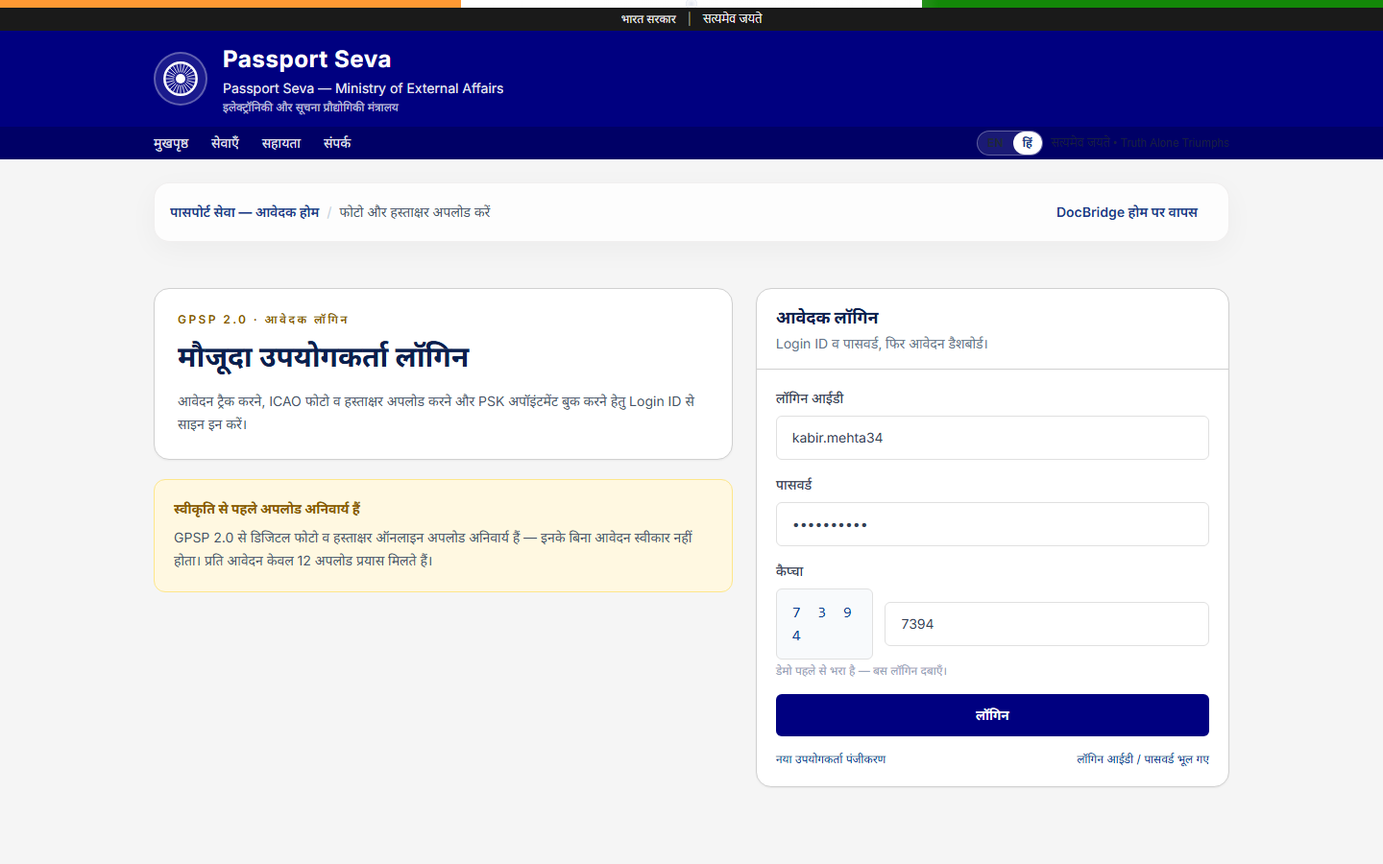
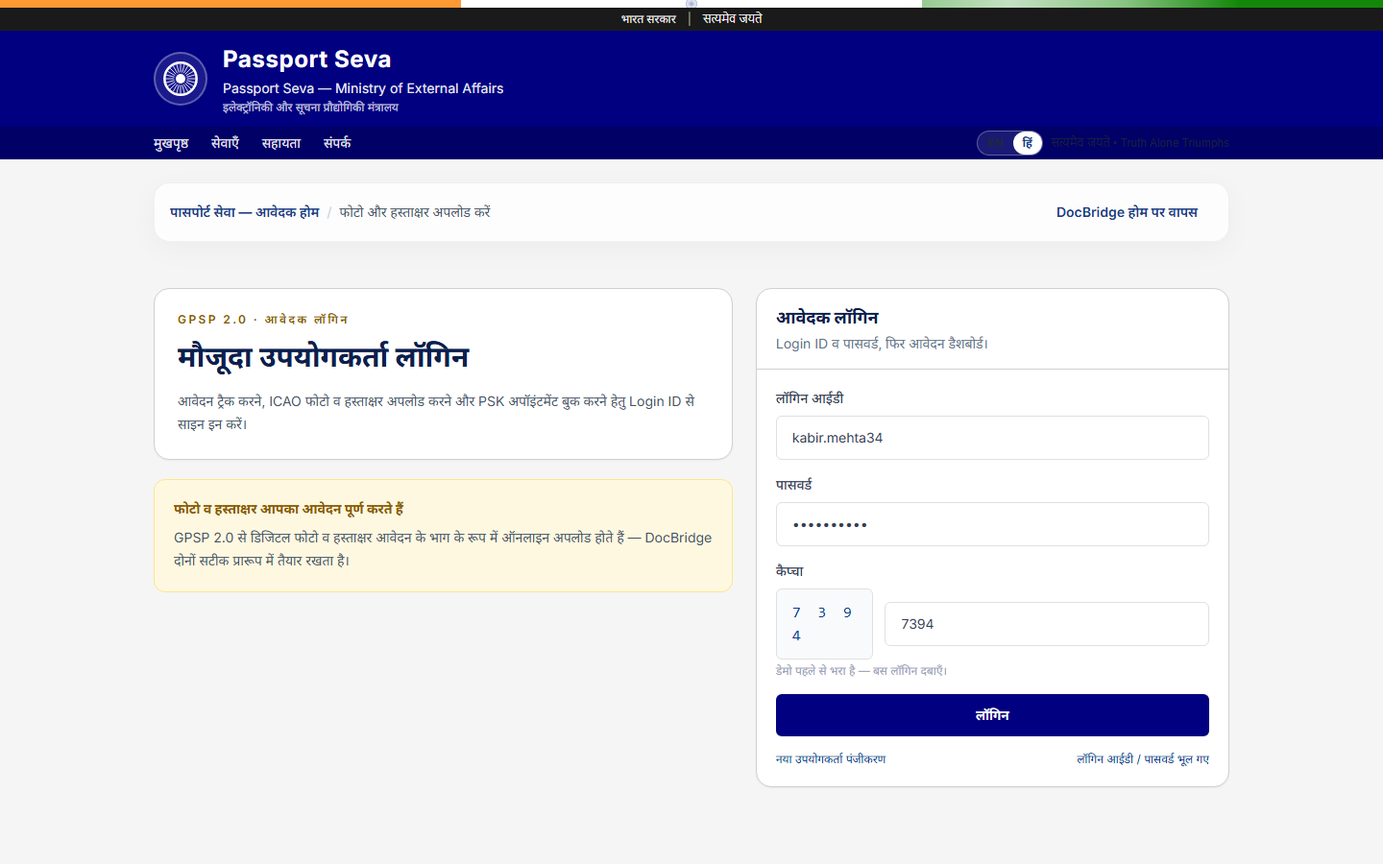
fix: ease portal journeys - drop limitation and failure framing across all screens

Changed region(s): [[0.125, 0.56, 0.5, 0.6533], [0.6562, 0.0, 0.875, 0.0311]]

diff --git a/src/lib/i18n.tsx b/src/lib/i18n.tsx
@@ -117,9 +117,9 @@ const dict: Record<string, { en: string; hi: string }> = {
   'epfo.signinTitle': { en: 'Sign in to continue your KYC update', hi: 'केवाईसी अपडेट जारी रखने हेतु साइन इन करें' },
   'epfo.signinSub': { en: 'Access member services, review KYC status, and upload supporting bank proof where required.', hi: 'सदस्य सेवाओं तक पहुँचें, केवाईसी स्थिति देखें और जहाँ आवश्यक हो सहायक बैंक प्रमाण अपलोड करें।' },
   'epfo.noticeTitle': { en: 'Important notice', hi: 'महत्वपूर्ण सूचना' },
-  'epfo.notice1': { en: 'EPFO services are available in a phased manner after recent platform upgrades.', hi: 'हालिया प्लेटफ़ॉर्म उन्नयन के बाद EPFO सेवाएँ चरणबद्ध रूप से उपलब्ध हैं।' },
-  'epfo.notice2': { en: 'Members may experience slightly longer processing times during peak hours.', hi: 'व्यस्त समय में सदस्यों को प्रक्रिया में थोड़ा अधिक समय लग सकता है।' },
-  'epfo.notice3': { en: 'Avoid repeated submissions while your request is under review.', hi: 'आपका अनुरोध समीक्षाधीन हो तब दोबारा जमा करने से बचें।' },
+  'epfo.notice1': { en: 'Member services are available online — sign in with UAN any time.', hi: 'सदस्य सेवाएँ ऑनलाइन उपलब्ध हैं — कभी भी यूएएन से साइन इन करें।' },
+  'epfo.notice2': { en: 'Track KYC, claims and passbook from a single dashboard.', hi: 'एक ही डैशबोर्ड से केवाईसी, दावे व पासबुक ट्रैक करें।' },
+  'epfo.notice3': { en: 'Keep bank details updated for smooth claim settlement.', hi: 'सहज दावा निपटान हेतु बैंक विवरण अद्यतन रखें।' },
   'epfo.sc1': { en: 'Activate UAN', hi: 'यूएएन सक्रिय करें' },
   'epfo.sc2': { en: 'Know Your UAN', hi: 'अपना यूएएन जानें' },
   'epfo.sc3': { en: 'Track Claim Status', hi: 'दावा स्थिति ट्रैक करें' },
@@ -132,7 +132,7 @@ const dict: Record<string, { en: string; hi: string }> = {
   'epfo.signin': { en: 'Sign In', hi: 'साइन इन' },
   'epfo.nudgeEyebrow': { en: 'Action required · Manage → KYC', hi: 'कार्रवाई आवश्यक · प्रबंध → केवाईसी' },
   'epfo.nudgeTitle': { en: 'Bank account KYC is pending document verification', hi: 'बैंक खाता केवाईसी दस्तावेज़ सत्यापन हेतु लंबित है' },
-  'epfo.nudgeDesc': { en: 'Your bank proof needs a clear PDF under 500 KB with account number and IFSC visible. Open KYC to fetch from DigiLocker and prepare it in one step — no external compressor.', hi: 'आपके बैंक प्रमाण हेतु 500 KB से कम स्पष्ट PDF चाहिए जिसमें खाता संख्या और IFSC दिखे। DigiLocker से लाकर एक चरण में तैयार करने हेतु केवाईसी खोलें — बाहरी कंप्रेसर की आवश्यकता नहीं।' },
+  'epfo.nudgeDesc': { en: 'Your bank proof needs a clear PDF under 500 KB with account number and IFSC visible. Open KYC to fetch from DigiLocker and prepare it in one calm step.', hi: 'आपके बैंक प्रमाण हेतु 500 KB से कम स्पष्ट PDF चाहिए जिसमें खाता संख्या और IFSC दिखे। DigiLocker से लाकर एक शांत चरण में तैयार करने हेतु केवाईसी खोलें।' },
   'epfo.nudgeCta': { en: 'Open Manage → KYC now', hi: 'प्रबंध → केवाईसी अभी खोलें' },
   'epfo.nudgeDismissed': { en: 'KYC nudge dismissed — you can still open it from the sidebar.', hi: 'केवाईसी सूचना हटाई गई — साइडबार से फिर खोल सकते हैं।' },
   'epfo.showAgain': { en: 'Show again', hi: 'फिर दिखाएँ' },
@@ -181,8 +181,8 @@ const dict: Record<string, { en: string; hi: string }> = {
   'epfo.qs4s': { en: 'Add/update nominee', hi: 'नामांकित व्यक्ति जोड़ें/बदलें' },
   'epfo.whyTitle': { en: 'Why the passbook proof matters', hi: 'पासबुक प्रमाण क्यों महत्वपूर्ण है' },
   'epfo.whyBody': { en: 'EPFO guidance says members can seed bank account KYC online, and bank proof such as the first page of the passbook is commonly required so the name, account number, and IFSC are visible.', hi: 'EPFO निर्देशों के अनुसार सदस्य बैंक खाता केवाईसी ऑनलाइन कर सकते हैं, और प्रायः पासबुक के प्रथम पृष्ठ जैसे बैंक प्रमाण की आवश्यकता होती है ताकि नाम, खाता संख्या और IFSC दिखे।' },
-  'epfo.friction': { en: 'Real friction:', hi: 'वास्तविक अड़चन:' },
-  'epfo.frictionBody': { en: 'a scanned passbook is often over 500 KB; the portal rejects it with “File size should be less than 500KB” and members hunt for online compressors.', hi: 'स्कैन की गई पासबुक प्रायः 500 KB से अधिक होती है; पोर्टल “फ़ाइल 500KB से कम होनी चाहिए” कहकर अस्वीकार करता है और सदस्य ऑनलाइन कंप्रेसर खोजते हैं।' },
+  'epfo.friction': { en: 'Good to know:', hi: 'जानना अच्छा है:' },
+  'epfo.frictionBody': { en: 'a clear first page of the passbook — name, account number and IFSC visible — is all it takes. DocBridge shapes it to the 500 KB rule automatically.', hi: 'पासबुक का स्पष्ट प्रथम पृष्ठ — नाम, खाता संख्या व IFSC सहित — ही पर्याप्त है। DocBridge इसे 500 KB नियम अनुरूप स्वतः ढालता है।' },
   'epfo.recent': { en: 'Recent activity', hi: 'हालिया गतिविधि' },
   'epfo.date': { en: 'Date', hi: 'तिथि' },
   'epfo.service': { en: 'Service', hi: 'सेवा' },
@@ -229,7 +229,7 @@ const dict: Record<string, { en: string; hi: string }> = {
   'vahan.newReg': { en: 'New Registration', hi: 'नया पंजीकरण' },
   'vahan.nudgeEyebrow': { en: 'Application DL2026-0092451 · Action required', hi: 'आवेदन DL2026-0092451 · कार्रवाई आवश्यक' },
   'vahan.nudgeTitle': { en: 'Photograph upload is pending — upload a 10-20 KB JPEG before fee payment', hi: 'फोटो अपलोड लंबित है — शुल्क भुगतान से पहले 10-20 KB JPEG अपलोड करें' },
-  'vahan.nudgeDesc': { en: 'Sarathi caps the photo at 20 KB (your phone photo is 2-5 MB). Click to open the upload section — DocBridge will crop to 35mm × 45mm and compress without blurring.', hi: 'सारथी फोटो की सीमा 20 KB रखता है (फोन फोटो 2-5 MB)। अपलोड अनुभाग खोलने हेतु क्लिक करें — DocBridge 35mm × 45mm में क्रॉप कर धुंधलाहट रहित कंप्रेस करेगा।' },
+  'vahan.nudgeDesc': { en: 'Sarathi asks for a 10–20 KB photo. Open the upload section — DocBridge shapes your photo to 35mm × 45mm in one calm step.', hi: 'सारथी 10–20 KB फोटो माँगता है। अपलोड अनुभाग खोलें — DocBridge आपकी फोटो एक शांत चरण में 35mm × 45mm में ढालता है।' },
   'vahan.nudgeDismissed': { en: 'Nudge dismissed — use the card below to continue.', hi: 'सूचना हटाई गई — आगे बढ़ने हेतु नीचे का कार्ड उपयोग करें।' },
   'vahan.appHome': { en: 'Application home', hi: 'आवेदन होम' },
   'vahan.application': { en: 'Application', hi: 'आवेदन' },
@@ -313,8 +313,8 @@ const dict: Record<string, { en: string; hi: string }> = {
   'upsc.reviewBody': { en: 'Please continue to the document upload section to complete the photograph requirement before moving to payment and final submission.', hi: 'भुगतान व अंतिम जमा से पहले फोटो आवश्यकता पूर्ण करने हेतु दस्तावेज़ अपलोड अनुभाग पर जाएँ।' },
   'upsc.task': { en: 'Current task', hi: 'वर्तमान कार्य' },
   'upsc.taskBody': { en: 'Upload passport photo before payment; UPSC will also run a live-photo match.', hi: 'भुगतान से पहले पासपोर्ट फोटो अपलोड करें; UPSC लाइव-फोटो मिलान भी चलाएगा।' },
-  'upsc.pain': { en: 'Pain point', hi: 'अड़चन' },
-  'upsc.painBody': { en: 'Exact size and dimension rules, but no friendly tooling to help meet them.', hi: 'सटीक साइज़ व आयाम नियम, पर उन्हें पूर्ण करने हेतु सहज साधन नहीं।' },
+  'upsc.pain': { en: 'Good to know', hi: 'जानना अच्छा है' },
+  'upsc.painBody': { en: 'The photo rules are precise — DocBridge checks size, pixels and background before you continue.', hi: 'फोटो नियम सटीक हैं — आगे बढ़ने से पहले DocBridge साइज़, पिक्सेल व पृष्ठभूमि जाँचता है।' },
   'upsc.impInst': { en: 'Important instructions', hi: 'महत्वपूर्ण निर्देश' },
   'upsc.ii1': { en: 'Keep your OTR details consistent across exams.', hi: 'सभी परीक्षाओं में OTR विवरण सुसंगत रखें।' },
   'upsc.ii2': { en: 'Live photograph must match uploaded photo (same lighting/pose).', hi: 'लाइव फोटो अपलोडेड फोटो से मेल खानी चाहिए (समान प्रकाश/मुद्रा)।' },
@@ -328,10 +328,10 @@ const dict: Record<string, { en: string; hi: string }> = {
   'upsc.rq6': { en: 'Face must cover 3/4th (75%) of photo', hi: 'चेहरा फोटो का 3/4 (75%) घेरे' },
   'upsc.rq7': { en: 'Live photograph capture & match required', hi: 'लाइव फोटो कैप्चर व मिलान आवश्यक' },
   'upsc.whereHelp': { en: 'Where DocBridge helps:', hi: 'DocBridge कहाँ सहायता करता है:' },
-  'upsc.whereHelpBody': { en: 'the photograph can be fetched, cropped, resized, compressed, and checked before the portal rejects it.', hi: 'पोर्टल अस्वीकार करे इससे पहले फोटो लाई, क्रॉप, रीसाइज़, कंप्रेस व जाँची जा सकती है।' },
+  'upsc.whereHelpBody': { en: 'the photograph can be fetched, cropped, resized, compressed, and checked before you continue.', hi: 'आगे बढ़ने से पहले फोटो लाई, क्रॉप, रीसाइज़, कंप्रेस व जाँची जा सकती है।' },
   'upsc.step35doc': { en: 'Step 3 of 5: Document Upload', hi: 'चरण 5 में से 3: दस्तावेज़ अपलोड' },
-  'upsc.strict': { en: 'Strict Requirements', hi: 'कठोर आवश्यकताएँ' },
-  'upsc.strictBody': { en: 'Upload latest Passport Photo. JPEG only. File size 20KB - 200KB. Resolution 350px - 1000px. Plain white background. Face must cover 3/4th (75%) of the photo. A live photograph must also be captured and matched.', hi: 'नवीनतम पासपोर्ट फोटो अपलोड करें। केवल JPEG। साइज़ 20KB - 200KB। रिज़ॉल्यूशन 350px - 1000px। सादी सफ़ेद पृष्ठभूमि। चेहरा फोटो का 3/4 (75%) घेरे। लाइव फोटो भी कैप्चर कर मिलाई जाएगी।' },
+  'upsc.strict': { en: 'Photo checklist', hi: 'फोटो जाँच-सूची' },
+  'upsc.strictBody': { en: 'Latest passport photo, JPEG, 20–200 KB, 350–1000 px, white background, 75% face — plus a quick live-photo match.', hi: 'नवीनतम पासपोर्ट फोटो, JPEG, 20–200 KB, 350–1000 px, सफ़ेद पृष्ठभूमि, 75% चेहरा — साथ में त्वरित लाइव-फोटो मिलान।' },
   'upsc.photoLabel': { en: 'Passport Photograph *', hi: 'पासपोर्ट फोटो *' },
   'upsc.stdUpload': { en: 'Standard upload expects a fully compliant JPEG', hi: 'मानक अपलोड हेतु पूर्णतः अनुरूप JPEG चाहिए' },
   'upsc.stdUploadSub': { en: '20KB - 200KB · 350 - 1000px · white background · 75% face', hi: '20KB - 200KB · 350 - 1000px · सफ़ेद पृष्ठभूमि · 75% चेहरा' },
@@ -340,7 +340,7 @@ const dict: Record<string, { en: string; hi: string }> = {
   'upsc.g1': { en: 'Recent photograph from the last 6 months', hi: 'पिछले 6 माह की नवीन फोटो' },
   'upsc.g2': { en: 'Clear front-facing image with eyes open', hi: 'आँखें खुली, स्पष्ट सामने की छवि' },
   'upsc.g3': { en: 'Plain white background and balanced crop', hi: 'सादी सफ़ेद पृष्ठभूमि व संतुलित क्रॉप' },
-  'upsc.g4': { en: 'No manual trial-and-error on external resize tools', hi: 'बाहरी रीसाइज़ साधनों पर मैनुअल आज़माइश नहीं' },
+  'upsc.g4': { en: 'Checked automatically — no extra tools needed', hi: 'स्वतः जाँचा जाता है — अतिरिक्त साधनों की आवश्यकता नहीं' },
   'upsc.doneEyebrow': { en: 'Photograph accepted', hi: 'फोटो स्वीकृत' },
   'upsc.doneTitle': { en: 'The application cleared the 2026 photo and live-match checks without a resize loop', hi: 'आवेदन 2026 फोटो व लाइव-मिलान जाँच में रीसाइज़ चक्र के बिना उत्तीर्ण' },
   'upsc.doneBody': { en: 'The photograph met the 20-200KB, 350-1000px, and white-background rules, and stayed consistent with the live photograph. You may continue to signature upload, payment, and final submission.', hi: 'फोटो 20-200KB, 350-1000px व सफ़ेद-पृष्ठभूमि नियमों पर खरी उतरी और लाइव फोटो से सुसंगत रही। अब हस्ताक्षर अपलोड, भुगतान व अंतिम जमा पर जाएँ।' },
@@ -353,18 +353,18 @@ const dict: Record<string, { en: string; hi: string }> = {
   'pp.loginEyebrow': { en: 'GPSP 2.0 · Applicant login', hi: 'GPSP 2.0 · आवेदक लॉगिन' },
   'pp.loginTitle': { en: 'Existing user login', hi: 'मौजूदा उपयोगकर्ता लॉगिन' },
   'pp.loginSub': { en: 'Sign in with your Login ID to track the application, upload the ICAO photo and signature, and book the PSK appointment.', hi: 'आवेदन ट्रैक करने, ICAO फोटो व हस्ताक्षर अपलोड करने और PSK अपॉइंटमेंट बुक करने हेतु Login ID से साइन इन करें।' },
-  'pp.mandatory': { en: 'Uploads are mandatory before acceptance', hi: 'स्वीकृति से पहले अपलोड अनिवार्य हैं' },
-  'pp.mandatoryBody': { en: 'Since GPSP 2.0, the digital photo and signature must be uploaded online — the application is not accepted without them. Only 12 upload attempts are allowed per application.', hi: 'GPSP 2.0 से डिजिटल फोटो व हस्ताक्षर ऑनलाइन अपलोड अनिवार्य हैं — इनके बिना आवेदन स्वीकार नहीं होता। प्रति आवेदन केवल 12 अपलोड प्रयास मिलते हैं।' },
+  'pp.mandatory': { en: 'Photo and signature complete your application', hi: 'फोटो व हस्ताक्षर आपका आवेदन पूर्ण करते हैं' },
+  'pp.mandatoryBody': { en: 'Since GPSP 2.0, the digital photo and signature are uploaded online as part of the application — DocBridge keeps both ready in the exact format.', hi: 'GPSP 2.0 से डिजिटल फोटो व हस्ताक्षर आवेदन के भाग के रूप में ऑनलाइन अपलोड होते हैं — DocBridge दोनों सटीक प्रारूप में तैयार रखता है।' },
   'pp.loginBox': { en: 'Login ID and password, then the application dashboard.', hi: 'Login ID व पासवर्ड, फिर आवेदन डैशबोर्ड।' },
   'pp.newUser': { en: 'New User Registration', hi: 'नया उपयोगकर्ता पंजीकरण' },
-  'pp.nudgeEyebrow': { en: 'ARN DL107 series · 12 attempts left', hi: 'ARN DL107 श्रृंखला · 12 प्रयास शेष' },
-  'pp.nudgeTitle': { en: 'Photo & signature upload pending — application not accepted without them', hi: 'फोटो व हस्ताक्षर अपलोड लंबित — इनके बिना आवेदन स्वीकार नहीं' },
-  'pp.nudgeDesc': { en: 'Passport Seva needs exactly 630×810px JPEG (10–250 KB) plus a signature under 100 KB. Open the upload section — DocBridge prepares both from DigiLocker before the portal burns an attempt.', hi: 'पासपोर्ट सेवा हेतु ठीक 630×810px JPEG (10–250 KB) व 100 KB से कम हस्ताक्षर चाहिए। अपलोड अनुभाग खोलें — पोर्टल प्रयास जलाए इससे पहले DocBridge दोनों DigiLocker से तैयार करेगा।' },
+  'pp.nudgeEyebrow': { en: 'ARN DL107 series · uploads open', hi: 'ARN DL107 श्रृंखला · अपलोड खुले हैं' },
+  'pp.nudgeTitle': { en: 'Photo & signature upload is ready when you are', hi: 'फोटो व हस्ताक्षर अपलोड जब आप तैयार हों' },
+  'pp.nudgeDesc': { en: 'Passport Seva needs exactly 630×810px JPEG (10–250 KB) plus a signature under 100 KB. Open the upload section — DocBridge prepares both from DigiLocker in one calm step.', hi: 'पासपोर्ट सेवा हेतु ठीक 630×810px JPEG (10–250 KB) व 100 KB से कम हस्ताक्षर चाहिए। अपलोड अनुभाग खोलें — DocBridge दोनों DigiLocker से एक शांत चरण में तैयार करेगा।' },
   'pp.nudgeDismissed': { en: 'Nudge dismissed — use the table below to continue.', hi: 'सूचना हटाई गई — आगे बढ़ने हेतु नीचे की तालिका उपयोग करें।' },
   'pp.applicantHome': { en: 'Applicant home', hi: 'आवेदक होम' },
   'pp.fileNo': { en: 'File number', hi: 'फ़ाइल संख्या' },
   'pp.fileSub': { en: 'Kabir Mehta · Fresh · Normal scheme', hi: 'कबीर मेहता · नवीन · सामान्य योजना' },
-  'pp.attemptsLeft': { en: '12/12 attempts left', hi: '12/12 प्रयास शेष' },
+  'pp.attemptsLeft': { en: '2 uploads to go', hi: '2 अपलोड शेष' },
   'pp.stages': { en: 'Application stages', hi: 'आवेदन चरण' },
   'pp.sg1': { en: 'Form submitted (ARN generated)', hi: 'फ़ॉर्म जमा (ARN जनरेट)' },
   'pp.sg2': { en: 'Fee paid online', hi: 'शुल्क ऑनलाइन भुगतान' },
@@ -376,15 +376,15 @@ const dict: Record<string, { en: string; hi: string }> = {
   'pp.action': { en: 'Action', hi: 'कार्रवाई' },
   'pp.rowStatus': { en: 'Photo/Signature pending', hi: 'फोटो/हस्ताक्षर लंबित' },
   'pp.uploadBtn': { en: 'Upload ⋮', hi: 'अपलोड ⋮' },
-  'pp.whyAttempts': { en: 'Why attempts matter:', hi: 'प्रयास क्यों मायने रखते हैं:' },
-  'pp.whyAttemptsBody': { en: 'each rejected file burns one of 12 tries. After the 12th failure the ARN is blocked and the form must be redone.', hi: 'प्रत्येक अस्वीकृत फ़ाइल 12 में से एक प्रयास जलाती है। 12वीं विफलता पर ARN ब्लॉक हो जाता है और फ़ॉर्म दोबारा भरना पड़ता है।' },
+  'pp.whyAttempts': { en: 'Checked before you continue:', hi: 'आगे बढ़ने से पहले जाँचा जाता है:' },
+  'pp.whyAttemptsBody': { en: 'DocBridge verifies pixels, format and size before submission — so each upload goes through calmly.', hi: 'जमा से पहले DocBridge पिक्सेल, प्रारूप व साइज़ सत्यापित करता है — ताकि हर अपलोड शांति से पूर्ण हो।' },
   'pp.uploadTitle': { en: 'Upload photograph & signature', hi: 'फोटो व हस्ताक्षर अपलोड करें' },
-  'pp.attemptsRem': { en: 'attempts remaining:', hi: 'प्रयास शेष:' },
+  'pp.attemptsRem': { en: 'Uploads:', hi: 'अपलोड:' },
   'pp.stage34': { en: 'Stage 3 of 4 · Uploads', hi: 'चरण 4 में से 3 · अपलोड' },
   'pp.photo': { en: 'Photograph', hi: 'फोटो' },
   'pp.photoSub': { en: 'Exactly 630 × 810 px · JPEG · 10–250 KB', hi: 'ठीक 630 × 810 px · JPEG · 10–250 KB' },
   'pp.pr1': { en: 'Exactly 630 × 810 pixels (35 × 45 mm, 7:9)', hi: 'ठीक 630 × 810 पिक्सेल (35 × 45 mm, 7:9)' },
-  'pp.pr2': { en: 'JPEG only — PNG, HEIC, WebP rejected', hi: 'केवल JPEG — PNG, HEIC, WebP अस्वीकृत' },
+  'pp.pr2': { en: 'JPEG only', hi: 'केवल JPEG' },
   'pp.pr3': { en: 'File size between 10 KB and 250 KB', hi: 'फ़ाइल साइज़ 10 KB से 250 KB के बीच' },
   'pp.pr4': { en: 'Plain white background, no shadows', hi: 'सादी सफ़ेद पृष्ठभूमि, छाया रहित' },
   'pp.pr5': { en: 'Face covers 80–85% of the frame', hi: 'चेहरा फ्रेम का 80–85% घेरे' },
@@ -397,10 +397,10 @@ const dict: Record<string, { en: string; hi: string }> = {
   'pp.sr3': { en: 'Wide rectangular crop, centred with margin', hi: 'चौड़ा आयताकार क्रॉप, मार्जिन सहित मध्य में' },
   'pp.sr4': { en: 'Plain white paper — no ruled lines or shadows', hi: 'सादा सफ़ेद कागज़ — रेखाएँ व छाया रहित' },
   'pp.sigAssist': { en: 'Fetch the signature scan and compress it under 100 KB without touching legibility.', hi: 'हस्ताक्षर स्कैन लाएँ और पठनीयता बरकरार रखते हुए 100 KB से कम कंप्रेस करें।' },
-  'pp.errAvoid': { en: 'Portal errors you avoid:', hi: 'पोर्टल त्रुटियाँ जिनसे बचते हैं:' },
-  'pp.errAvoidBody': { en: '“Image size is not correct. Dimensions should be 630*810 pixels.” — one pixel off is a rejection and a burned attempt.', hi: '“छवि साइज़ सही नहीं। आयाम 630*810 पिक्सेल होने चाहिए।” — एक पिक्सेल चूक भी अस्वीकृति व जला प्रयास है।' },
+  'pp.errAvoid': { en: 'What DocBridge checks:', hi: 'DocBridge क्या जाँचता है:' },
+  'pp.errAvoidBody': { en: 'Dimensions 630×810, JPEG format and 10–250 KB size — verified before you continue.', hi: 'आयाम 630×810, JPEG प्रारूप व 10–250 KB साइज़ — आगे बढ़ने से पहले सत्यापित।' },
   'pp.doneTitle': { en: 'Photo and signature cleared GPSP checks — book the PSK slot', hi: 'फोटो व हस्ताक्षर GPSP जाँच में उत्तीर्ण — PSK स्लॉट बुक करें' },
-  'pp.doneBody': { en: 'Both files passed the pixel, format, and size validators with attempts to spare. The application can now move to appointment booking at the Passport Seva Kendra.', hi: 'दोनों फ़ाइलें प्रयास शेष रहते पिक्सेल, प्रारूप व साइज़ जाँच में उत्तीर्ण हुईं। अब Passport Seva Kendra पर अपॉइंटमेंट बुकिंग पर जाएँ।' },
+  'pp.doneBody': { en: 'Both files passed the pixel, format, and size validators. The application can now move to appointment booking at the Passport Seva Kendra.', hi: 'दोनों फ़ाइलें पिक्सेल, प्रारूप व साइज़ जाँच में उत्तीर्ण हुईं। अब Passport Seva Kendra पर अपॉइंटमेंट बुकिंग पर जाएँ।' },
   'pp.rc1l': { en: 'Photograph', hi: 'फोटो' },
   'pp.rc1v': { en: '630×810 JPEG, 10–250 KB ✓', hi: '630×810 JPEG, 10–250 KB ✓' },
   'pp.rc2l': { en: 'Signature', hi: 'हस्ताक्षर' },
@@ -410,16 +410,16 @@ const dict: Record<string, { en: string; hi: string }> = {
   'ssc.cglSub': { en: 'CGL 2026 · Photo & Signature', hi: 'CGL 2026 · फोटो व हस्ताक्षर' },
   'ssc.loginEyebrow': { en: 'OTR · One Time Registration', hi: 'OTR · वन टाइम पंजीकरण' },
   'ssc.loginSub': { en: 'One registration drives every SSC exam — CGL, CHSL, MTS. Log in to complete the photo and signature uploads before applying.', hi: 'एक पंजीकरण हर SSC परीक्षा — CGL, CHSL, MTS — चलाता है। आवेदन से पहले फोटो व हस्ताक्षर अपलोड पूर्ण करने हेतु लॉगिन करें।' },
-  'ssc.screening': { en: 'Automated screening is unforgiving', hi: 'स्वचालित जाँच निर्मम है' },
-  'ssc.screeningBody': { en: 'The OTR portal checks pixels and kilobytes arithmetically — a 201×230 photo or a 21 KB signature is rejected outright, and a distorted signature can mean disqualification at the venue.', hi: 'OTR पोर्टल पिक्सेल व किलोबाइट गणितीय रूप से जाँचता है — 201×230 फोटो या 21 KB हस्ताक्षर सीधे अस्वीकृत, और विकृत हस्ताक्षर का अर्थ केंद्र पर अयोग्यता हो सकती है।' },
+  'ssc.screening': { en: 'Checked with care', hi: 'सावधानी से जाँचा जाता है' },
+  'ssc.screeningBody': { en: 'The OTR portal reads pixels and kilobytes exactly — DocBridge matches both boxes before you continue, keeping your signature true to your hand.', hi: 'OTR पोर्टल पिक्सेल व किलोबाइट ठीक-ठीक पढ़ता है — आगे बढ़ने से पहले DocBridge दोनों बॉक्स पूर्ण करता है, आपका हस्ताक्षर आपकी लिखावट जैसा ही रहता है।' },
   'ssc.loginBox': { en: 'Registration number, date of birth, and captcha.', hi: 'पंजीकरण संख्या, जन्मतिथि व कैप्चा।' },
   'ssc.regNo': { en: 'Registration Number', hi: 'पंजीकरण संख्या' },
   'ssc.dob': { en: 'Date of Birth (DD/MM/YYYY)', hi: 'जन्मतिथि (DD/MM/YYYY)' },
   'ssc.newOtr': { en: 'New OTR Registration', hi: 'नया OTR पंजीकरण' },
   'ssc.forgotReg': { en: 'Forgot Registration No.', hi: 'पंजीकरण सं. भूल गए' },
   'ssc.nudgeEyebrow': { en: 'CGL 2026 · OTR SSCOTR20240055231', hi: 'CGL 2026 · OTR SSCOTR20240055231' },
-  'ssc.nudgeTitle': { en: 'Photo & signature pending — the tightest boxes of any portal', hi: 'फोटो व हस्ताक्षर लंबित — किसी भी पोर्टल के सबसे तंग बॉक्स' },
-  'ssc.nudgeDesc': { en: 'SSC needs a 200×230px photo (20–50 KB) and a 140×60px signature (10–20 KB) in running hand. Open uploads — DocBridge hits both boxes from DigiLocker in one pass.', hi: 'SSC हेतु 200×230px फोटो (20–50 KB) व 140×60px हस्ताक्षर (10–20 KB) चालू लिखावट में चाहिए। अपलोड खोलें — DocBridge DigiLocker से एक बार में दोनों बॉक्स पूर्ण करेगा।' },
+  'ssc.nudgeTitle': { en: 'Photo & signature upload is ready when you are', hi: 'फोटो व हस्ताक्षर अपलोड जब आप तैयार हों' },
+  'ssc.nudgeDesc': { en: 'SSC asks for a 200×230px photo (20–50 KB) and a 140×60px signature (10–20 KB). Open uploads — DocBridge prepares both from DigiLocker in one calm pass.', hi: 'SSC हेतु 200×230px फोटो (20–50 KB) व 140×60px हस्ताक्षर (10–20 KB) चाहिए। अपलोड खोलें — DocBridge DigiLocker से एक शांत चरण में दोनों तैयार करेगा।' },
   'ssc.nudgeDismissed': { en: 'Nudge dismissed — use the cards below to continue.', hi: 'सूचना हटाई गई — आगे बढ़ने हेतु नीचे के कार्ड उपयोग करें।' },
   'ssc.otrProfile': { en: 'OTR profile', hi: 'OTR प्रोफ़ाइल' },
   'ssc.candidate': { en: 'Candidate', hi: 'अभ्यर्थी' },
@@ -427,30 +427,30 @@ const dict: Record<string, { en: string; hi: string }> = {
   'ssc.myExams': { en: 'My examinations', hi: 'मेरी परीक्षाएँ' },
   'ssc.applyPending': { en: 'Apply — uploads pending', hi: 'आवेदन करें — अपलोड लंबित' },
   'ssc.cglApp': { en: 'CGL 2026 application', hi: 'CGL 2026 आवेदन' },
-  'ssc.cglTitle': { en: 'Two tiny boxes, zero tolerance', hi: 'दो नन्हे बॉक्स, शून्य सहनशीलता' },
-  'ssc.cglBody': { en: 'A phone photo is 3–10 MB — roughly 100× over the 50 KB cap — and must land on an exact pixel box. The signature must be a 140×60 strip in flowing hand, never capitals.', hi: 'फोन फोटो 3–10 MB — 50 KB सीमा से लगभग 100× अधिक — और ठीक पिक्सेल बॉक्स पर उतरनी चाहिए। हस्ताक्षर प्रवाही लिखावट में 140×60 पट्टी हो, कैपिटल में कभी नहीं।' },
+  'ssc.cglTitle': { en: 'Two exact boxes, handled for you', hi: 'दो सटीक बॉक्स, आपके लिए सँभाले गए' },
+  'ssc.cglBody': { en: 'Phone photos run 3–10 MB and each box asks for kilobytes with exact pixels — DocBridge settles each file into place while keeping your handwriting natural.', hi: 'फोन फोटो 3–10 MB की होती हैं और हर बॉक्स सटीक पिक्सेल सहित किलोबाइट माँगता है — DocBridge हर फ़ाइल को जगह पर बिठाता है, आपकी लिखावट प्राकृतिक रखते हुए।' },
   'ssc.photoBox': { en: 'Photograph · 200×230', hi: 'फोटो · 200×230' },
-  'ssc.photoBoxSub': { en: '20–50 KB JPEG · white background · no cap, no spectacles.', hi: '20–50 KB JPEG · सफ़ेद पृष्ठभूमि · टोपी व चश्मा रहित।' },
+  'ssc.photoBoxSub': { en: '20–50 KB JPEG · white background · face clearly visible.', hi: '20–50 KB JPEG · सफ़ेद पृष्ठभूमि · चेहरा स्पष्ट दिखे।' },
   'ssc.sigBox': { en: 'Signature · 140×60', hi: 'हस्ताक्षर · 140×60' },
-  'ssc.sigBoxSub': { en: '10–20 KB JPEG · running script — all-caps signatures are invalid.', hi: '10–20 KB JPEG · चालू लिखावट — पूर्ण-कैपिटल हस्ताक्षर अमान्य।' },
+  'ssc.sigBoxSub': { en: '10–20 KB JPEG · flowing running script.', hi: '10–20 KB JPEG · प्रवाही चालू लिखावट।' },
   'ssc.uploadTitle': { en: 'Upload photograph & signature', hi: 'फोटो व हस्ताक्षर अपलोड करें' },
   'ssc.uploadSub': { en: 'CGL 2026 · both files are validated arithmetically — exact pixels, exact KB band', hi: 'CGL 2026 · दोनों फ़ाइलें गणितीय रूप से सत्यापित — सटीक पिक्सेल, सटीक KB बैंड' },
   'ssc.step24': { en: 'Step 2 of 4 · Uploads', hi: 'चरण 4 में से 2 · अपलोड' },
   'ssc.photoSub': { en: 'Exactly 200 × 230 px · JPEG · 20–50 KB', hi: 'ठीक 200 × 230 px · JPEG · 20–50 KB' },
   'ssc.pr1': { en: 'Exactly 200 × 230 pixels (3.5 × 4.5 cm)', hi: 'ठीक 200 × 230 पिक्सेल (3.5 × 4.5 cm)' },
-  'ssc.pr2': { en: 'JPEG only — PNG renamed to .jpg still fails', hi: 'केवल JPEG — .jpg नाम बदला PNG भी विफल' },
+  'ssc.pr2': { en: 'JPEG only', hi: 'केवल JPEG' },
   'ssc.pr3': { en: 'File size between 20 KB and 50 KB', hi: 'फ़ाइल साइज़ 20 KB से 50 KB के बीच' },
-  'ssc.pr4': { en: 'White background, no cap, no spectacles', hi: 'सफ़ेद पृष्ठभूमि, टोपी व चश्मा रहित' },
+  'ssc.pr4': { en: 'White background, face clearly visible', hi: 'सफ़ेद पृष्ठभूमि, चेहरा स्पष्ट दिखे' },
   'ssc.pr5': { en: 'Recent photo — not older than 3 months', hi: 'हालिया फोटो — 3 माह से पुरानी नहीं' },
   'ssc.photoAssist': { en: 'Fetch the photo from DigiLocker and land it on the 200×230 box inside the 20–50 KB band.', hi: 'DigiLocker से फोटो लाएँ और 20–50 KB बैंड में 200×230 बॉक्स पर उतारें।' },
   'ssc.sigSub': { en: 'Exactly 140 × 60 px · JPEG · 10–20 KB', hi: 'ठीक 140 × 60 px · JPEG · 10–20 KB' },
   'ssc.sr1': { en: 'Exactly 140 × 60 pixels (3.5 × 1.5 cm)', hi: 'ठीक 140 × 60 पिक्सेल (3.5 × 1.5 cm)' },
   'ssc.sr2': { en: 'JPEG only, between 10 KB and 20 KB', hi: 'केवल JPEG, 10 KB से 20 KB के बीच' },
-  'ssc.sr3': { en: 'Running handwriting — NOT block capitals', hi: 'चालू लिखावट — ब्लॉक कैपिटल नहीं' },
+  'ssc.sr3': { en: 'Flowing running handwriting', hi: 'प्रवाही चालू लिखावट' },
   'ssc.sr4': { en: 'Black or blue ink on plain white paper', hi: 'सादे सफ़ेद कागज़ पर काली या नीली स्याही' },
   'ssc.sigAssist': { en: 'Fetch the signature and squeeze it into the 140×60 strip without losing the hand.', hi: 'हस्ताक्षर लाएँ और लिखावट बरकरार रखते हुए 140×60 पट्टी में समेटें।' },
-  'ssc.errAvoid': { en: 'Portal errors you avoid:', hi: 'पोर्टल त्रुटियाँ जिनसे बचते हैं:' },
-  'ssc.errAvoidBody': { en: '“Invalid dimensions or size” at 21 KB or 201 px — and a stretched signature that an invigilator cannot match at the venue.', hi: '21 KB या 201 px पर “अमान्य आयाम या साइज़” — और खिंचा हस्ताक्षर जिसे केंद्र पर निरीक्षक मिला न सके।' },
+  'ssc.errAvoid': { en: 'Checked before you continue:', hi: 'आगे बढ़ने से पहले जाँचा जाता है:' },
+  'ssc.errAvoidBody': { en: 'Exact pixels and KB bands for both files — verified before submission.', hi: 'दोनों फ़ाइलों हेतु सटीक पिक्सेल व KB बैंड — जमा से पहले सत्यापित।' },
   'ssc.doneTitle': { en: 'Both files sit inside their boxes — the CGL form can proceed', hi: 'दोनों फ़ाइलें अपने बॉक्स में — CGL फ़ॉर्म आगे बढ़ सकता है' },
   'ssc.doneBody': { en: 'The photograph and signature passed the pixel and KB-band validators. The OTR profile now carries them into every SSC exam application.', hi: 'फोटो व हस्ताक्षर पिक्सेल व KB-बैंड जाँच में उत्तीर्ण हुए। OTR प्रोफ़ाइल अब इन्हें हर SSC परीक्षा आवेदन में ले जाएगी।' },
   'ssc.rc1v': { en: '200×230 JPEG, 20–50 KB ✓', hi: '200×230 JPEG, 20–50 KB ✓' },
@@ -461,8 +461,8 @@ const dict: Record<string, { en: string; hi: string }> = {
   'nsp.ayUpload': { en: 'AY 2026-27 · Upload Documents', hi: 'शै.व. 2026-27 · दस्तावेज़ अपलोड करें' },
   'nsp.loginEyebrow': { en: 'AY 2026-27 · OTR login', hi: 'शै.व. 2026-27 · OTR लॉगिन' },
   'nsp.loginSub': { en: 'One 14-digit OTR number carries the student through the entire academic career — login once, apply for merit and welfare schemes together.', hi: 'एक 14-अंकीय OTR संख्या छात्र को पूरे शैक्षणिक जीवन ले जाती है — एक बार लॉगिन करें, मेधा व कल्याण योजनाओं हेतु एक साथ आवेदन करें।' },
-  'nsp.stall': { en: 'Document upload is where applications stall', hi: 'दस्तावेज़ अपलोड पर आवेदन अटकते हैं' },
-  'nsp.stallBody': { en: 'Strict size and format rules block final submission — and a blurred or expired income certificate is the most common reason a nodal officer defects an application.', hi: 'कठोर साइज़ व प्रारूप नियम अंतिम जमा रोकते हैं — और धुंधला या समाप्त आय प्रमाण नोडल अधिकारी द्वारा आवेदन लौटाने का सबसे आम कारण है।' },
+  'nsp.stall': { en: 'Uploads made simple', hi: 'अपलोड सरल बनाए गए' },
+  'nsp.stallBody': { en: 'Photo and income certificate each have their own size and format — DocBridge prepares both side by side, ready for institute verification.', hi: 'फोटो व आय प्रमाणपत्र — हर एक का अपना साइज़ व प्रारूप है — DocBridge दोनों साथ-साथ तैयार करता है, संस्थान सत्यापन हेतु तत्पर।' },
   'nsp.loginBox': { en: 'OTR number, Aadhaar-linked mobile OTP.', hi: 'OTR संख्या, आधार-लिंक्ड मोबाइल OTP।' },
   'nsp.otrNo': { en: 'OTR Number (14-digit)', hi: 'OTR संख्या (14-अंकीय)' },
   'nsp.aadMobile': { en: 'Aadhaar-linked Mobile', hi: 'आधार-लिंक्ड मोबाइल' },
@@ -470,8 +470,8 @@ const dict: Record<string, { en: string; hi: string }> = {
   'nsp.applyOtr': { en: 'Apply for OTR', hi: 'OTR हेतु आवेदन करें' },
   'nsp.faceAuth': { en: 'NSP OTR App (face auth)', hi: 'NSP OTR ऐप (फेस ऑथ)' },
   'nsp.nudgeEyebrow': { en: 'AY 2026-27 · OTR NSPOTR2026MEERA19', hi: 'शै.व. 2026-27 · OTR NSPOTR2026MEERA19' },
-  'nsp.nudgeTitle': { en: '2 documents pending — photo and income certificate block submission', hi: '2 दस्तावेज़ लंबित — फोटो व आय प्रमाण जमा रोकते हैं' },
-  'nsp.nudgeDesc': { en: 'NSP needs a photo under 50 KB plus a stamped income-certificate PDF under 500 KB. Open uploads — DocBridge prepares the JPEG and the PDF side by side from DigiLocker.', hi: 'NSP हेतु 50 KB से कम फोटो व 500 KB से कम मोहरयुक्त आय-प्रमाण PDF चाहिए। अपलोड खोलें — DocBridge DigiLocker से JPEG व PDF साथ-साथ तैयार करेगा।' },
+  'nsp.nudgeTitle': { en: '2 documents ready to prepare — photo and income certificate', hi: '2 दस्तावेज़ तैयार करने हेतु — फोटो व आय प्रमाणपत्र' },
+  'nsp.nudgeDesc': { en: 'NSP asks for a photo under 50 KB plus a stamped income-certificate PDF under 500 KB. Open uploads — DocBridge prepares the JPEG and the PDF side by side from DigiLocker.', hi: 'NSP हेतु 50 KB से कम फोटो व 500 KB से कम मोहरयुक्त आय-प्रमाण PDF चाहिए। अपलोड खोलें — DocBridge DigiLocker से JPEG व PDF साथ-साथ तैयार करेगा।' },
   'nsp.nudgeDismissed': { en: 'Nudge dismissed — use the cards below to continue.', hi: 'सूचना हटाई गई — आगे बढ़ने हेतु नीचे के कार्ड उपयोग करें।' },
   'nsp.profile': { en: 'Student profile', hi: 'छात्र प्रोफ़ाइल' },
   'nsp.profSub': { en: 'Meera Nair · B.Sc 1st year · Kerala', hi: 'मीरा नायर · B.Sc प्रथम वर्ष · केरल' },
@@ -483,19 +483,19 @@ const dict: Record<string, { en: string; hi: string }> = {
   'nsp.openTill': { en: 'Open till 31-10-2026', hi: '31-10-2026 तक खुला' },
   'nsp.app2627': { en: 'Application 2026-27', hi: 'आवेदन 2026-27' },
   'nsp.appTitle': { en: 'One photo, one certificate — two different rulebooks', hi: 'एक फोटो, एक प्रमाणपत्र — दो अलग नियम-पुस्तकें' },
-  'nsp.appBody': { en: 'The photo is a tiny JPEG while the income certificate is a stamped PDF up to 500 KB — students usually bounce between a photo resizer and a PDF compressor. DocBridge does both in place.', hi: 'फोटो नन्हा JPEG है जबकि आय प्रमाण 500 KB तक मोहरयुक्त PDF — छात्र प्रायः फोटो रीसाइज़र व PDF कंप्रेसर के बीच भटकते हैं। DocBridge दोनों यहीं करता है।' },
+  'nsp.appBody': { en: 'The photo is a tiny JPEG while the income certificate is a stamped PDF up to 500 KB — DocBridge prepares both in place, side by side.', hi: 'फोटो नन्हा JPEG है जबकि आय प्रमाण 500 KB तक मोहरयुक्त PDF — DocBridge दोनों यहीं, साथ-साथ तैयार करता है।' },
   'nsp.photoBox': { en: 'Photograph · ≤50 KB', hi: 'फोटो · ≤50 KB' },
   'nsp.photoBoxSub': { en: 'JPEG · plain background · face clearly visible.', hi: 'JPEG · सादी पृष्ठभूमि · चेहरा स्पष्ट दिखे।' },
   'nsp.certBox': { en: 'Income certificate · ≤500 KB', hi: 'आय प्रमाणपत्र · ≤500 KB' },
   'nsp.certBoxSub': { en: 'PDF · FY 2026-27 · stamp & signature visible.', hi: 'PDF · वि.व. 2026-27 · मोहर व हस्ताक्षर दिखें।' },
   'nsp.chainTitle': { en: 'Verification chain after submit', hi: 'जमा के बाद सत्यापन श्रृंखला' },
-  'nsp.chainBody': { en: 'Institute nodal officer → District → State → PFMS payment. A defect at any level sends the form back to the student.', hi: 'संस्थान नोडल अधिकारी → जिला → राज्य → PFMS भुगतान। किसी भी स्तर की कमी फ़ॉर्म छात्र को लौटा देती है।' },
+  'nsp.chainBody': { en: 'Institute nodal officer → District → State → PFMS payment. Each level moves the application forward.', hi: 'संस्थान नोडल अधिकारी → जिला → राज्य → PFMS भुगतान। हर स्तर आवेदन को आगे बढ़ाता है।' },
   'nsp.uploadTitle': { en: 'Upload documents', hi: 'दस्तावेज़ अपलोड करें' },
   'nsp.uploadSub': { en: 'AY 2026-27 · Post-Matric + Merit-cum-Means · only PDF and JPG accepted', hi: 'शै.व. 2026-27 · पोस्ट-मैट्रिक + मेरिट-कम-मीन्स · केवल PDF व JPG स्वीकार्य' },
   'nsp.uploadDocs': { en: 'Upload Document(s)', hi: 'दस्तावेज़ अपलोड करें' },
   'nsp.photoSub': { en: 'JPEG · under 50 KB', hi: 'JPEG · 50 KB से कम' },
   'nsp.pr1': { en: 'Recent passport-size photo, plain background', hi: 'हालिया पासपोर्ट-साइज़ फोटो, सादी पृष्ठभूमि' },
-  'nsp.pr2': { en: 'JPEG / JPG only — PNG and HEIC rejected', hi: 'केवल JPEG / JPG — PNG व HEIC अस्वीकृत' },
+  'nsp.pr2': { en: 'JPEG / JPG only', hi: 'केवल JPEG / JPG' },
   'nsp.pr3': { en: 'Under 50 KB', hi: '50 KB से कम' },
   'nsp.pr4': { en: 'Face clearly visible, no filters or shadows', hi: 'चेहरा स्पष्ट दिखे, फ़िल्टर व छाया रहित' },
   'nsp.photoAssist': { en: 'Fetch the photo from DigiLocker and compress it under 50 KB.', hi: 'DigiLocker से फोटो लाएँ और 50 KB से कम कंप्रेस करें।' },
@@ -506,10 +506,10 @@ const dict: Record<string, { en: string; hi: string }> = {
   'nsp.ir3': { en: 'Stamp and signature of issuing authority visible', hi: 'जारी प्राधिकारी की मोहर व हस्ताक्षर दिखें' },
   'nsp.ir4': { en: 'Name must match Aadhaar exactly', hi: 'नाम आधार से हूबहू मेल खाए' },
   'nsp.certAssist': { en: 'Fetch the certificate scan and convert it to a stamped PDF under 500 KB — no ilovepdf detour.', hi: 'प्रमाणपत्र स्कैन लाएँ और 500 KB से कम मोहरयुक्त PDF में बदलें — ilovepdf चक्कर नहीं।' },
-  'nsp.errAvoid': { en: 'Rejections you avoid:', hi: 'अस्वीकृतियाँ जिनसे बचते हैं:' },
-  'nsp.errAvoidBody': { en: 'PNG/HEIC uploads that the portal silently drops, and expired certificates that a nodal officer defects months later.', hi: 'PNG/HEIC अपलोड जिन्हें पोर्टल चुपचाप गिरा देता है, और समाप्त प्रमाणपत्र जिन्हें नोडल अधिकारी महीनों बाद लौटाता है।' },
+  'nsp.errAvoid': { en: 'Checked before you continue:', hi: 'आगे बढ़ने से पहले जाँचा जाता है:' },
+  'nsp.errAvoidBody': { en: 'Right formats and sizes for both files — verified before submission.', hi: 'दोनों फ़ाइलों हेतु सही प्रारूप व साइज़ — जमा से पहले सत्यापित।' },
   'nsp.doneTitle': { en: 'Photo and income proof are in — the verification chain takes over', hi: 'फोटो व आय प्रमाण प्राप्त — अब सत्यापन श्रृंखला संभालेगी' },
-  'nsp.doneBody': { en: 'Both documents met the format and size rules, so the application can move to institute verification instead of bouncing at upload.', hi: 'दोनों दस्तावेज़ प्रारूप व साइज़ नियमों पर खरे उतरे, अतः आवेदन अपलोड पर अटके बिना संस्थान सत्यापन पर जा सकता है।' },
+  'nsp.doneBody': { en: 'Both documents met the format and size rules, so the application can move to institute verification.', hi: 'दोनों दस्तावेज़ प्रारूप व साइज़ नियमों पर खरे उतरे, अतः आवेदन संस्थान सत्यापन पर जा सकता है।' },
   'nsp.rc1v': { en: 'JPEG under 50 KB ✓', hi: '50 KB से कम JPEG ✓' },
   'nsp.rc2l': { en: 'Income certificate', hi: 'आय प्रमाणपत्र' },
   'nsp.rc2v': { en: 'PDF under 500 KB ✓', hi: '500 KB से कम PDF ✓' },
@@ -637,7 +637,7 @@ const dict: Record<string, { en: string; hi: string }> = {
   'nsp.otrI1': { en: 'OTR is a unique 14-digit number based on Aadhaar / EID.', hi: 'OTR आधार / EID पर आधारित अद्वितीय 14-अंकीय संख्या है।' },
   'nsp.otrI2': { en: 'Required for scholarships from AY 2024-25 onwards.', hi: 'शै.व. 2024-25 से छात्रवृत्ति हेतु आवश्यक।' },
   'nsp.otrI3': { en: 'Generate via the NSP OTR App (Google Play) with face authentication.', hi: 'NSP OTR ऐप (Google Play) द्वारा फेस ऑथेंटिकेशन से बनाएँ।' },
-  'nsp.otrI4': { en: 'Keep Aadhaar biometrics unlocked for face-auth; error 904 means update the AadhaarFACERD app.', hi: 'फेस-ऑथ हेतु आधार बायोमेट्रिक्स अनलॉक रखें; त्रुटि 904 पर AadhaarFACERD ऐप अपडेट करें।' },
+  'nsp.otrI4': { en: 'Face authentication is guided step by step in the NSP OTR App — keep Aadhaar biometrics unlocked for a smooth check.', hi: 'NSP OTR ऐप में फेस ऑथेंटिकेशन चरण-दर-चरण निर्देशित है — सहज जाँच हेतु आधार बायोमेट्रिक्स अनलॉक रखें।' },
   'nsp.annT': { en: 'Announcements', hi: 'घोषणाएँ' },
   'nsp.ann1': { en: 'Renewal applications open — student closing date 31-10-2026, institute verification till 15-11-2026.', hi: 'नवीनीकरण आवेदन खुले — छात्र अंतिम तिथि 31-10-2026, संस्थान सत्यापन 15-11-2026 तक।' },
   'nsp.ann2': { en: 'Apply for one merit-based and one or more welfare-based schemes from AY 2026-27, per eligibility.', hi: 'शै.व. 2026-27 से पात्रता अनुसार एक मेधा-आधारित व एक या अधिक कल्याण-आधारित योजना हेतु आवेदन करें।' },

diff --git a/src/components/portals/PassportPortal.tsx b/src/components/portals/PassportPortal.tsx
@@ -202,7 +202,7 @@ export default function PassportPortal() {
               <div className="flex flex-wrap items-center justify-between gap-3">
                 <div>
                   <h2 className="text-lg font-bold text-[#0b1f4d]">{t('pp.uploadTitle')}</h2>
-                  <p className="mt-1 text-sm text-slate-500">ARN BNGO40217846125 · {t('pp.attemptsRem')} <strong className="text-amber-700">12 / 12</strong></p>
+                  <p className="mt-1 text-sm text-slate-500">ARN BNGO40217846125 · {t('pp.attemptsRem')} <strong className="text-amber-700">photo + signature</strong></p>
                 </div>
                 <span className="rounded-full bg-slate-50 px-3 py-1 text-xs font-semibold text-slate-600">{t('pp.stage34')}</span>
               </div>
